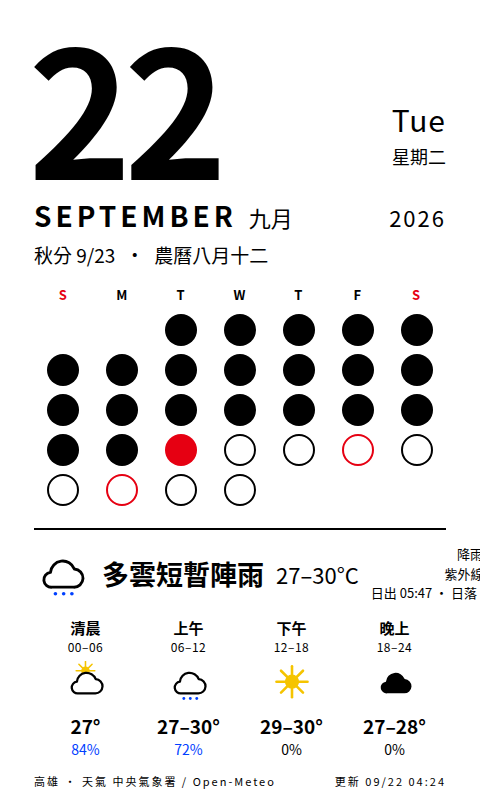
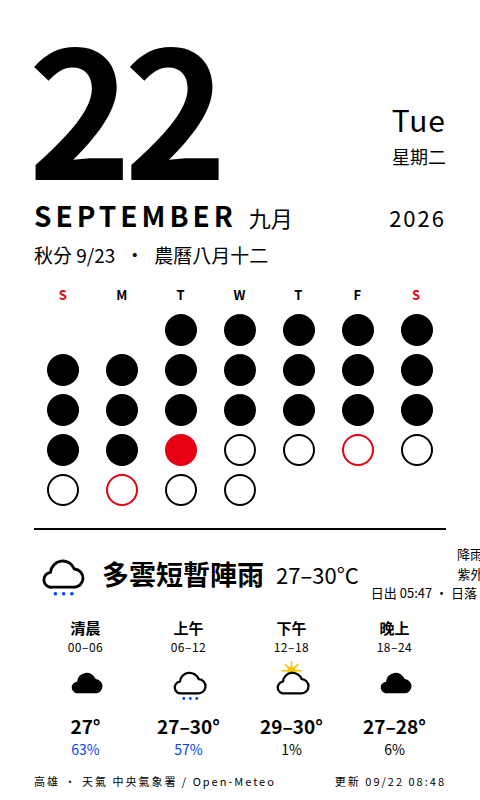
deploy: cf7d1051eb6821bc691ba0ade4beb12cdf9fe0ef

diff --git a/calendar.html b/calendar.html
@@ -55,8 +55,8 @@
   <div class="grid"><div class="h we">S</div><div class="h">M</div><div class="h">T</div><div class="h">W</div><div class="h">T</div><div class="h">F</div><div class="h we">S</div><div class="dot empty"></div><div class="dot empty"></div><div class="dot past" title="1"></div><div class="dot past" title="2"></div><div class="dot past" title="3"></div><div class="dot past" title="4"></div><div class="dot past" title="5"></div><div class="dot past" title="6"></div><div class="dot past" title="7"></div><div class="dot past" title="8"></div><div class="dot past" title="9"></div><div class="dot past" title="10"></div><div class="dot past" title="11"></div><div class="dot past" title="12"></div><div class="dot past" title="13"></div><div class="dot past" title="14"></div><div class="dot past" title="15"></div><div class="dot past" title="16"></div><div class="dot past" title="17"></div><div class="dot past" title="18"></div><div class="dot past" title="19"></div><div class="dot past" title="20"></div><div class="dot past" title="21"></div><div class="dot now" title="22"></div><div class="dot future" title="23"></div><div class="dot future" title="24"></div><div class="dot future hol" title="25"></div><div class="dot future" title="26"></div><div class="dot future" title="27"></div><div class="dot future hol" title="28"></div><div class="dot future" title="29"></div><div class="dot future" title="30"></div></div>
   <div class="wx"><div class="line">
     <div class="wxhead"><svg viewBox="0 0 64 68" xmlns="http://www.w3.org/2000/svg"><path d="M20 50h26a11 11 0 0 0 1-22 15 15 0 0 0-29 4 9 9 0 0 0 2 18z" fill="#fff" stroke="#000" stroke-width="3.5" stroke-linejoin="round"/><g fill="#0040ff"><circle cx="24" cy="58" r="2.2"/><circle cx="34" cy="58" r="2.2"/><circle cx="44" cy="58" r="2.2"/></g></svg><span class="desc">多雲短暫陣雨</span><span class="temp">27–30°C</span>
-      <div class="meta">降雨 30%<br>紫外線 過量<br>日出 05:47 · 日落 17:55</div></div>
-    <div class="slots"><div class="slot"><div class="n">清晨</div><div class="hrs">00–06</div><svg viewBox="0 0 64 68" xmlns="http://www.w3.org/2000/svg"><g transform="translate(12 -4) scale(.6)"><circle cx="32" cy="32" r="11" fill="#f5c400"/><g stroke="#f5c400" stroke-width="4" stroke-linecap="round"><line x1="32" y1="32" x2="32" y2="8" transform="rotate(0 32 32)"/><line x1="32" y1="32" x2="32" y2="8" transform="rotate(45 32 32)"/><line x1="32" y1="32" x2="32" y2="8" transform="rotate(90 32 32)"/><line x1="32" y1="32" x2="32" y2="8" transform="rotate(135 32 32)"/><line x1="32" y1="32" x2="32" y2="8" transform="rotate(180 32 32)"/><line x1="32" y1="32" x2="32" y2="8" transform="rotate(225 32 32)"/><line x1="32" y1="32" x2="32" y2="8" transform="rotate(270 32 32)"/><line x1="32" y1="32" x2="32" y2="8" transform="rotate(315 32 32)"/></g></g><path d="M20 50h26a11 11 0 0 0 1-22 15 15 0 0 0-29 4 9 9 0 0 0 2 18z" fill="#fff" stroke="#000" stroke-width="3.5" stroke-linejoin="round"/></svg><div class="t">27°</div><div class="p ">84%</div></div><div class="slot"><div class="n">上午</div><div class="hrs">06–12</div><svg viewBox="0 0 64 68" xmlns="http://www.w3.org/2000/svg"><path d="M20 50h26a11 11 0 0 0 1-22 15 15 0 0 0-29 4 9 9 0 0 0 2 18z" fill="#fff" stroke="#000" stroke-width="3.5" stroke-linejoin="round"/><g fill="#0040ff"><circle cx="24" cy="58" r="2.2"/><circle cx="34" cy="58" r="2.2"/><circle cx="44" cy="58" r="2.2"/></g></svg><div class="t">27–30°</div><div class="p ">72%</div></div><div class="slot"><div class="n">下午</div><div class="hrs">12–18</div><svg viewBox="0 0 64 68" xmlns="http://www.w3.org/2000/svg"><circle cx="32" cy="32" r="11" fill="#f5c400"/><g stroke="#f5c400" stroke-width="4" stroke-linecap="round"><line x1="32" y1="32" x2="32" y2="8" transform="rotate(0 32 32)"/><line x1="32" y1="32" x2="32" y2="8" transform="rotate(45 32 32)"/><line x1="32" y1="32" x2="32" y2="8" transform="rotate(90 32 32)"/><line x1="32" y1="32" x2="32" y2="8" transform="rotate(135 32 32)"/><line x1="32" y1="32" x2="32" y2="8" transform="rotate(180 32 32)"/><line x1="32" y1="32" x2="32" y2="8" transform="rotate(225 32 32)"/><line x1="32" y1="32" x2="32" y2="8" transform="rotate(270 32 32)"/><line x1="32" y1="32" x2="32" y2="8" transform="rotate(315 32 32)"/></g></svg><div class="t">29–30°</div><div class="p dry">0%</div></div><div class="slot"><div class="n">晚上</div><div class="hrs">18–24</div><svg viewBox="0 0 64 68" xmlns="http://www.w3.org/2000/svg"><path d="M20 50h26a11 11 0 0 0 1-22 15 15 0 0 0-29 4 9 9 0 0 0 2 18z" fill="#000"/></svg><div class="t">27–28°</div><div class="p dry">0%</div></div></div>
+      <div class="meta">降雨 30%<br>紫外線 高<br>日出 05:47 · 日落 17:55</div></div>
+    <div class="slots"><div class="slot"><div class="n">清晨</div><div class="hrs">00–06</div><svg viewBox="0 0 64 68" xmlns="http://www.w3.org/2000/svg"><path d="M20 50h26a11 11 0 0 0 1-22 15 15 0 0 0-29 4 9 9 0 0 0 2 18z" fill="#000"/></svg><div class="t">27°</div><div class="p ">63%</div></div><div class="slot"><div class="n">上午</div><div class="hrs">06–12</div><svg viewBox="0 0 64 68" xmlns="http://www.w3.org/2000/svg"><path d="M20 50h26a11 11 0 0 0 1-22 15 15 0 0 0-29 4 9 9 0 0 0 2 18z" fill="#fff" stroke="#000" stroke-width="3.5" stroke-linejoin="round"/><g fill="#0040ff"><circle cx="24" cy="58" r="2.2"/><circle cx="34" cy="58" r="2.2"/><circle cx="44" cy="58" r="2.2"/></g></svg><div class="t">27–30°</div><div class="p ">57%</div></div><div class="slot"><div class="n">下午</div><div class="hrs">12–18</div><svg viewBox="0 0 64 68" xmlns="http://www.w3.org/2000/svg"><g transform="translate(12 -4) scale(.6)"><circle cx="32" cy="32" r="11" fill="#f5c400"/><g stroke="#f5c400" stroke-width="4" stroke-linecap="round"><line x1="32" y1="32" x2="32" y2="8" transform="rotate(0 32 32)"/><line x1="32" y1="32" x2="32" y2="8" transform="rotate(45 32 32)"/><line x1="32" y1="32" x2="32" y2="8" transform="rotate(90 32 32)"/><line x1="32" y1="32" x2="32" y2="8" transform="rotate(135 32 32)"/><line x1="32" y1="32" x2="32" y2="8" transform="rotate(180 32 32)"/><line x1="32" y1="32" x2="32" y2="8" transform="rotate(225 32 32)"/><line x1="32" y1="32" x2="32" y2="8" transform="rotate(270 32 32)"/><line x1="32" y1="32" x2="32" y2="8" transform="rotate(315 32 32)"/></g></g><path d="M20 50h26a11 11 0 0 0 1-22 15 15 0 0 0-29 4 9 9 0 0 0 2 18z" fill="#fff" stroke="#000" stroke-width="3.5" stroke-linejoin="round"/></svg><div class="t">29–30°</div><div class="p dry">1%</div></div><div class="slot"><div class="n">晚上</div><div class="hrs">18–24</div><svg viewBox="0 0 64 68" xmlns="http://www.w3.org/2000/svg"><path d="M20 50h26a11 11 0 0 0 1-22 15 15 0 0 0-29 4 9 9 0 0 0 2 18z" fill="#000"/></svg><div class="t">27–28°</div><div class="p dry">6%</div></div></div>
   </div></div>
-  <div class="foot"><span>高雄 · 天氣 中央氣象署 / Open-Meteo</span><span>更新 09/22 04:24</span></div>
+  <div class="foot"><span>高雄 · 天氣 中央氣象署 / Open-Meteo</span><span>更新 09/22 08:48</span></div>
 </div></body></html>
